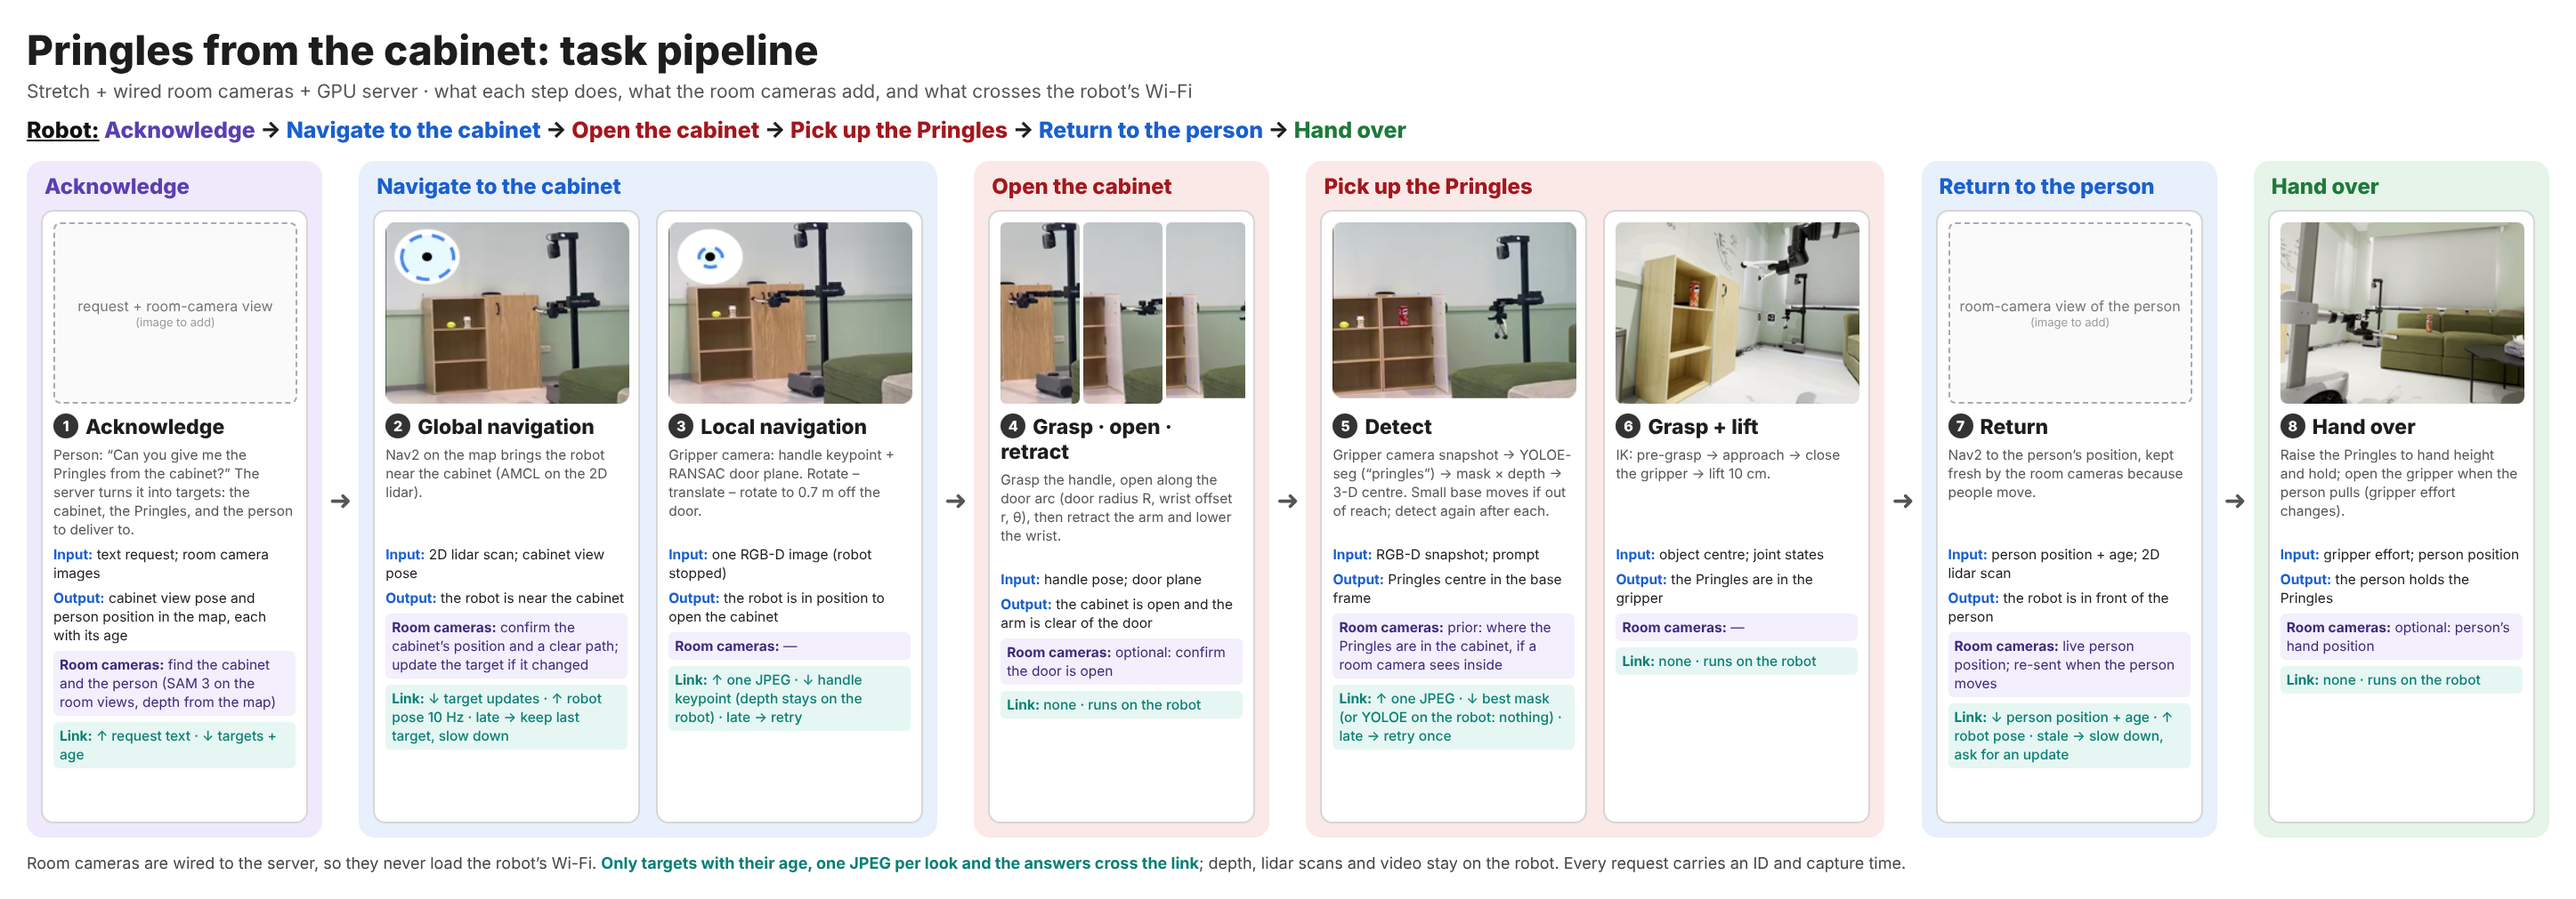
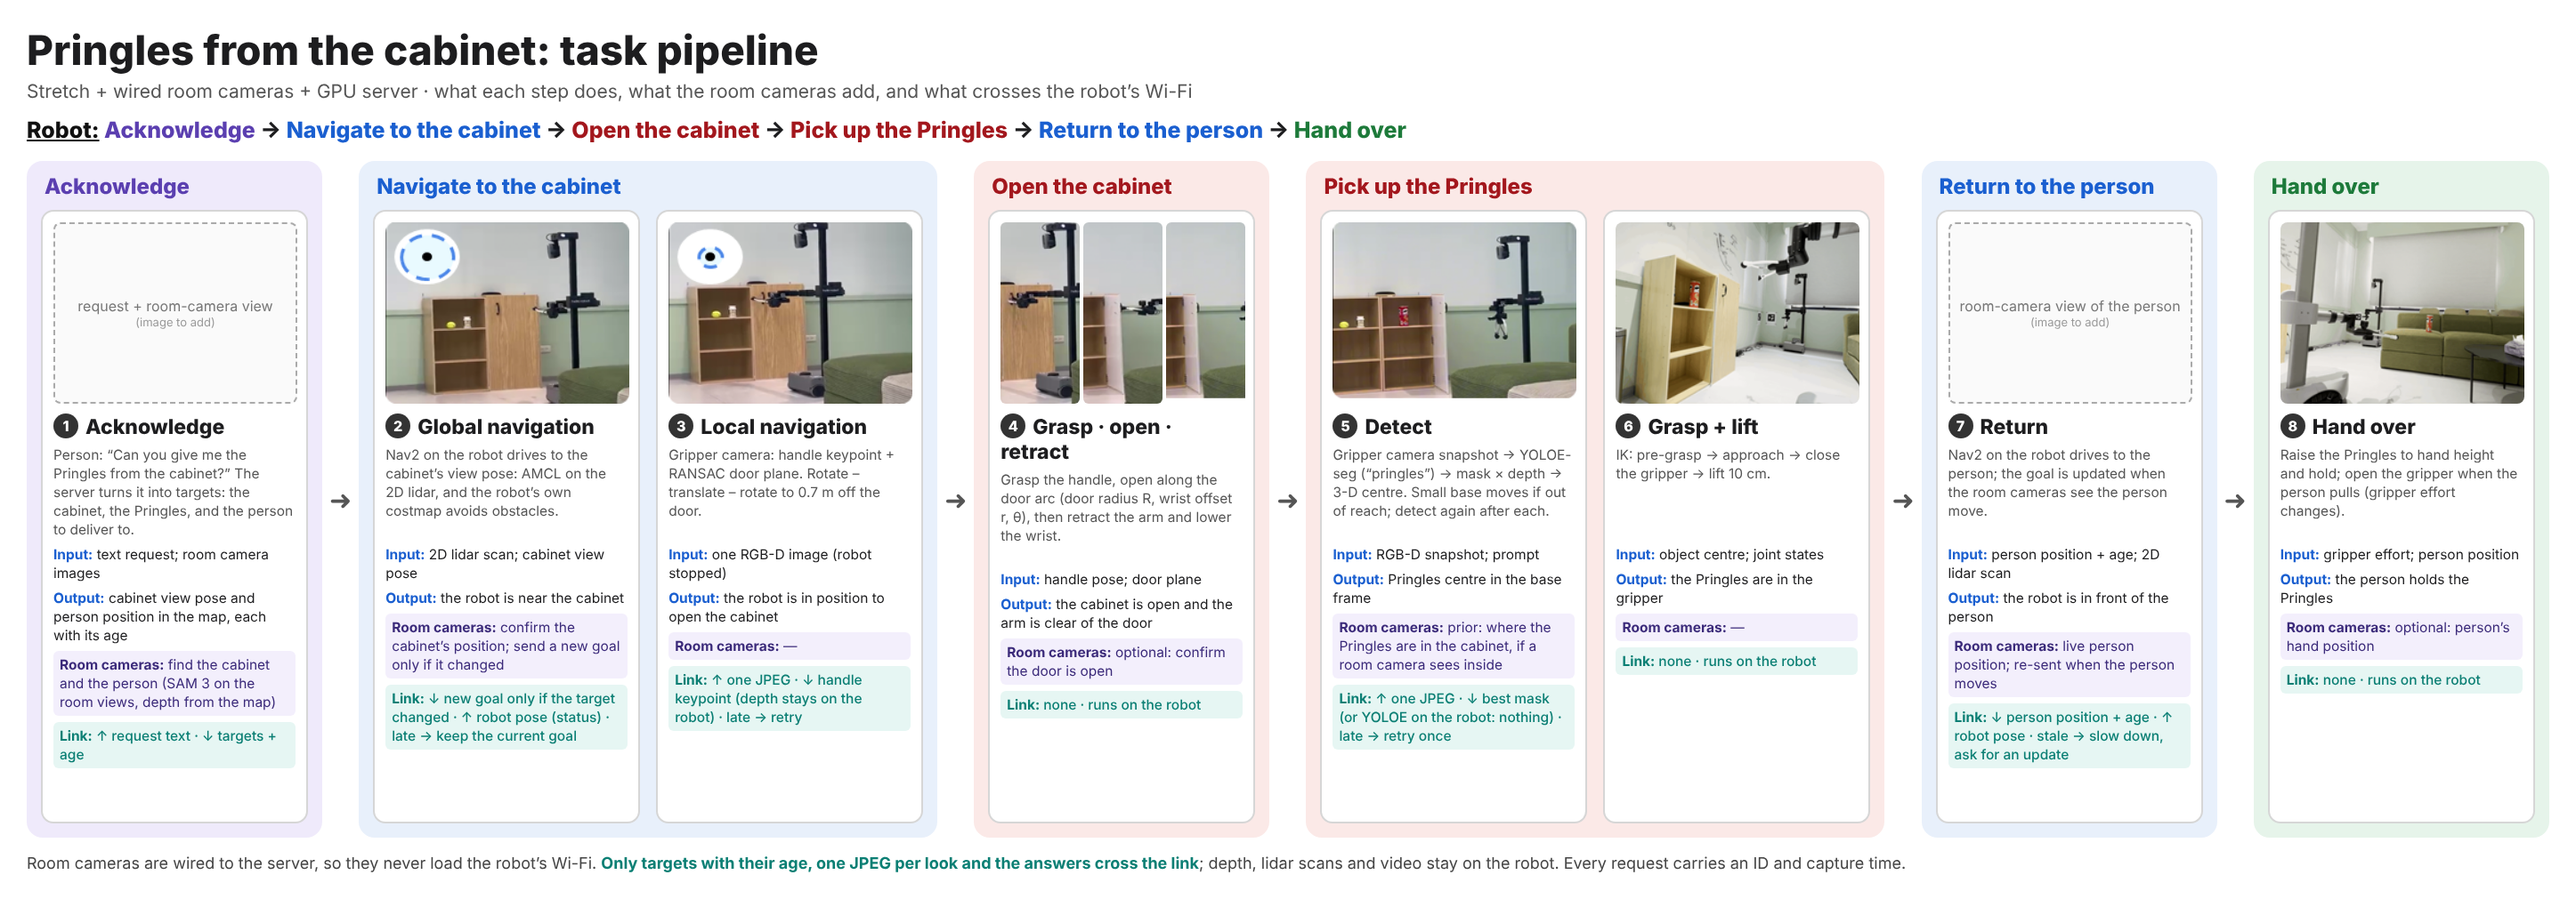
value_scheduling/docs: Nav2 runs on the robot; server only sends new goals
Claude-Session: https://claude.ai/code/session_01DRH73LQ5v6ELsEk8DTfauh

Changed region(s): [[0.1555, 0.7052, 0.2488, 0.8279], [0.1555, 0.4906, 0.2488, 0.5826], [0.7464, 0.4906, 0.8397, 0.5519]]

diff --git a/value_scheduling/docs/fig_task_pipeline.html b/value_scheduling/docs/fig_task_pipeline.html
@@ -43,11 +43,11 @@ h1 { font-size:46px; font-weight:800 }
 <div class="io cam"><b>Room cameras:</b> find the cabinet and the person (SAM 3 on the room views, depth from the map)</div>
 <div class="io link"><b>Link:</b> ↑ request text · ↓ targets + age</div></div></div></div><div class="arr">➜</div><div class="panel" style="background:#e8f0fb"><div class="pt" style="color:#1a5fd0">Navigate to the cabinet</div><div class="row"><div class="card"><img class="pic" src="pick_img/global_nav.png">
 <div class="t"><span class="n">2</span>Global navigation</div>
-<div class="d">Nav2 on the map brings the robot near the cabinet (AMCL on the 2D lidar).</div>
+<div class="d">Nav2 on the robot drives to the cabinet’s view pose: AMCL on the 2D lidar, and the robot’s own costmap avoids obstacles.</div>
 <div class="io"><b class="in">Input:</b> 2D lidar scan; cabinet view pose</div>
 <div class="io"><b class="in">Output:</b> the robot is near the cabinet</div>
-<div class="io cam"><b>Room cameras:</b> confirm the cabinet’s position and a clear path; update the target if it changed</div>
-<div class="io link"><b>Link:</b> ↓ target updates · ↑ robot pose 10 Hz · late → keep last target, slow down</div></div><div class="card"><img class="pic" src="pick_img/local_nav.png">
+<div class="io cam"><b>Room cameras:</b> confirm the cabinet’s position; send a new goal only if it changed</div>
+<div class="io link"><b>Link:</b> ↓ new goal only if the target changed · ↑ robot pose (status) · late → keep the current goal</div></div><div class="card"><img class="pic" src="pick_img/local_nav.png">
 <div class="t"><span class="n">3</span>Local navigation</div>
 <div class="d">Gripper camera: handle keypoint + RANSAC door plane. Rotate – translate – rotate to 0.7 m off the door.</div>
 <div class="io"><b class="in">Input:</b> one RGB-D image (robot stopped)</div>
@@ -73,7 +73,7 @@ h1 { font-size:46px; font-weight:800 }
 <div class="io cam"><b>Room cameras:</b> —</div>
 <div class="io link"><b>Link:</b> none · runs on the robot</div></div></div></div><div class="arr">➜</div><div class="panel" style="background:#e8f0fb"><div class="pt" style="color:#1a5fd0">Return to the person</div><div class="row"><div class="card"><div class="ph">room-camera view of the person<br><span>(image to add)</span></div>
 <div class="t"><span class="n">7</span>Return</div>
-<div class="d">Nav2 to the person’s position, kept fresh by the room cameras because people move.</div>
+<div class="d">Nav2 on the robot drives to the person; the goal is updated when the room cameras see the person move.</div>
 <div class="io"><b class="in">Input:</b> person position + age; 2D lidar scan</div>
 <div class="io"><b class="in">Output:</b> the robot is in front of the person</div>
 <div class="io cam"><b>Room cameras:</b> live person position; re-sent when the person moves</div>

diff --git a/value_scheduling/docs/build_pick_pipeline.py b/value_scheduling/docs/build_pick_pipeline.py
@@ -23,11 +23,11 @@ groups = [
              link='↑ request text · ↓ targets + age')]),
     ('nav', 'Navigate to the cabinet', [
         dict(img='global_nav.png', title='Global navigation',
-             desc='Nav2 on the map brings the robot near the cabinet (AMCL on the 2D lidar).',
+             desc='Nav2 on the robot drives to the cabinet’s view pose: AMCL on the 2D lidar, and the robot’s own costmap avoids obstacles.',
              inp='2D lidar scan; cabinet view pose',
              out='the robot is near the cabinet',
-             cam='confirm the cabinet’s position and a clear path; update the target if it changed',
-             link='↓ target updates · ↑ robot pose 10 Hz · late → keep last target, slow down'),
+             cam='confirm the cabinet’s position; send a new goal only if it changed',
+             link='↓ new goal only if the target changed · ↑ robot pose (status) · late → keep the current goal'),
         dict(img='local_nav.png', title='Local navigation',
              desc='Gripper camera: handle keypoint + RANSAC door plane. Rotate – translate – rotate '
                   'to 0.7 m off the door.',
@@ -59,7 +59,7 @@ groups = [
              link='none · runs on the robot')]),
     ('nav', 'Return to the person', [
         dict(img=None, ph='room-camera view of the person', title='Return',
-             desc='Nav2 to the person’s position, kept fresh by the room cameras because people move.',
+             desc='Nav2 on the robot drives to the person; the goal is updated when the room cameras see the person move.',
              inp='person position + age; 2D lidar scan',
              out='the robot is in front of the person',
              cam='live person position; re-sent when the person moves',
